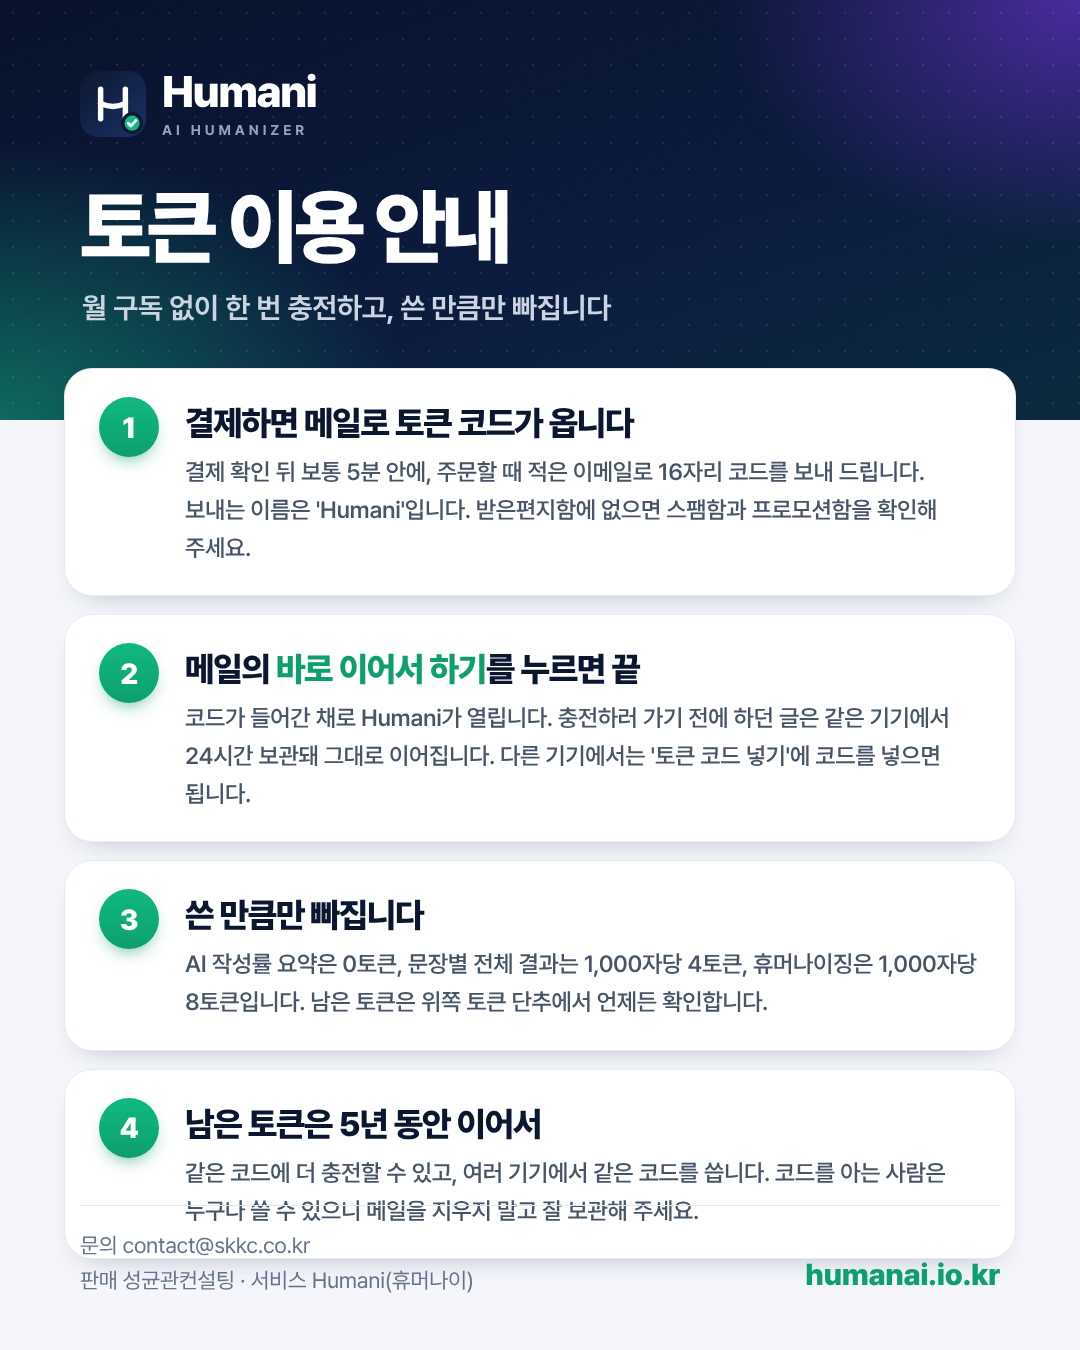
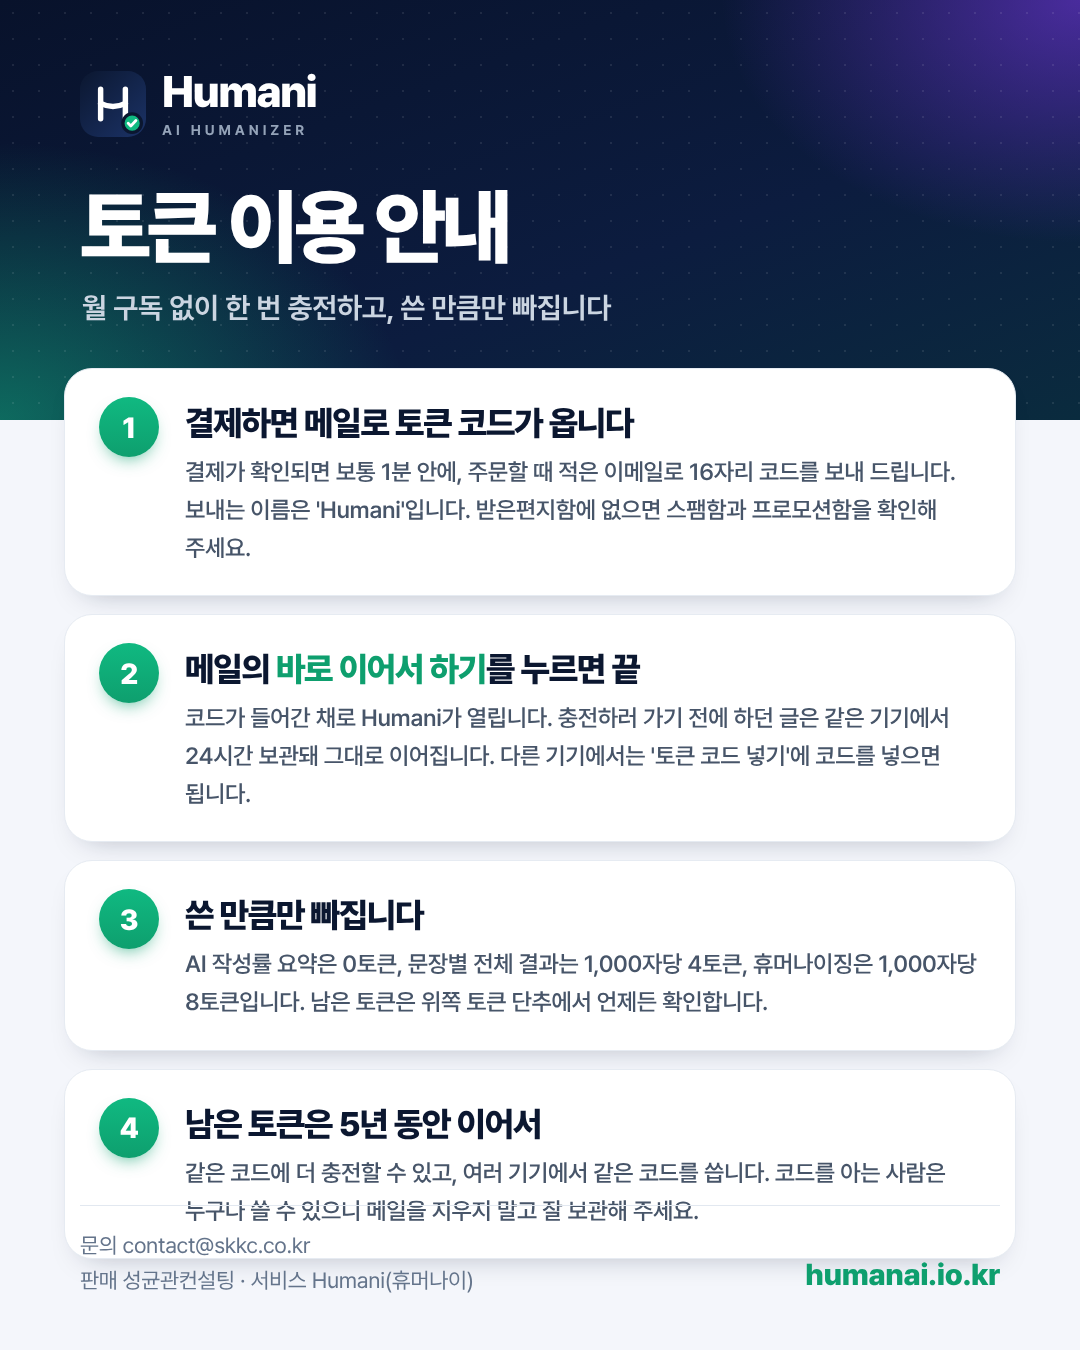
토큰 이용 안내 이미지: 코드 도착 시간 표기를 사이트와 같게(보통 1분 안)
Claude-Session: https://claude.ai/code/session_01S1z1utKgZQroBHmopM7EfA

Changed region(s): [[0.2139, 0.3422, 0.8861, 0.3733]]

diff --git a/_src/shop/render.py b/_src/shop/render.py
@@ -128,7 +128,7 @@ def thumb_html(p):
 
 
 GUIDE_STEPS = [
-    ("결제하면 메일로 토큰 코드가 옵니다", "결제 확인 뒤 보통 5분 안에, 주문할 때 적은 이메일로 16자리 코드를 보내 드립니다. 보내는 이름은 'Humani'입니다. 받은편지함에 없으면 스팸함과 프로모션함을 확인해 주세요."),
+    ("결제하면 메일로 토큰 코드가 옵니다", "결제가 확인되면 보통 1분 안에, 주문할 때 적은 이메일로 16자리 코드를 보내 드립니다. 보내는 이름은 'Humani'입니다. 받은편지함에 없으면 스팸함과 프로모션함을 확인해 주세요."),
     ("메일의 <em>바로 이어서 하기</em>를 누르면 끝", "코드가 들어간 채로 Humani가 열립니다. 충전하러 가기 전에 하던 글은 같은 기기에서 24시간 보관돼 그대로 이어집니다. 다른 기기에서는 '토큰 코드 넣기'에 코드를 넣으면 됩니다."),
     ("쓴 만큼만 빠집니다", "AI 작성률 요약은 0토큰, 문장별 전체 결과는 1,000자당 4토큰, 휴머나이징은 1,000자당 8토큰입니다. 남은 토큰은 위쪽 토큰 단추에서 언제든 확인합니다."),
     ("남은 토큰은 5년 동안 이어서", "같은 코드에 더 충전할 수 있고, 여러 기기에서 같은 코드를 씁니다. 코드를 아는 사람은 누구나 쓸 수 있으니 메일을 지우지 말고 잘 보관해 주세요."),
